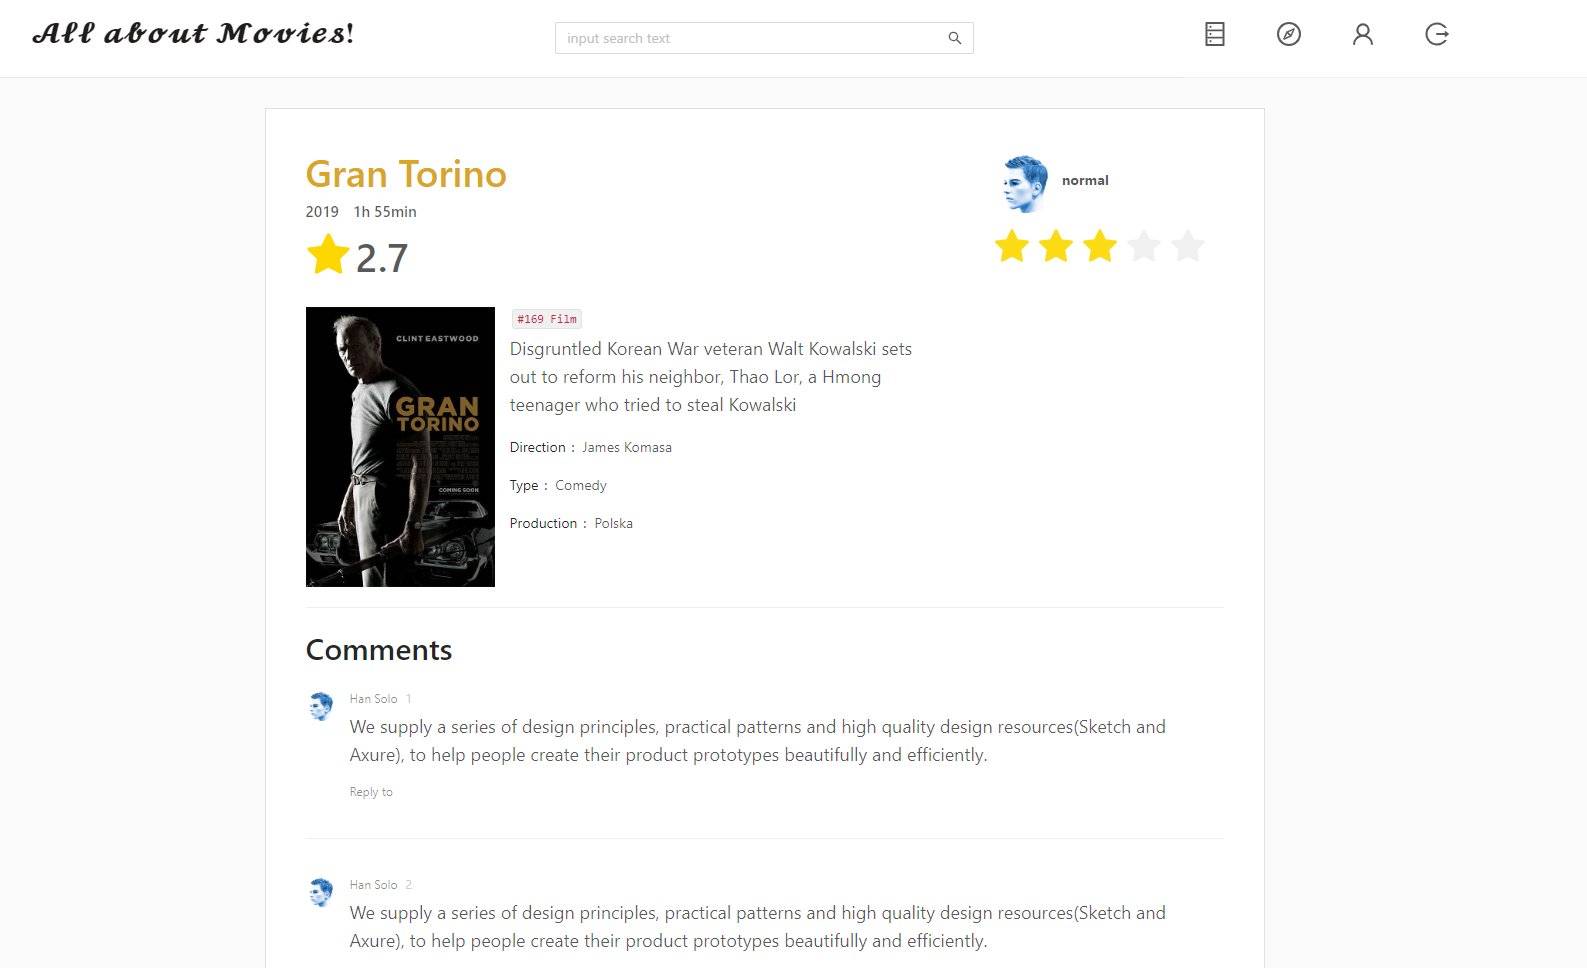
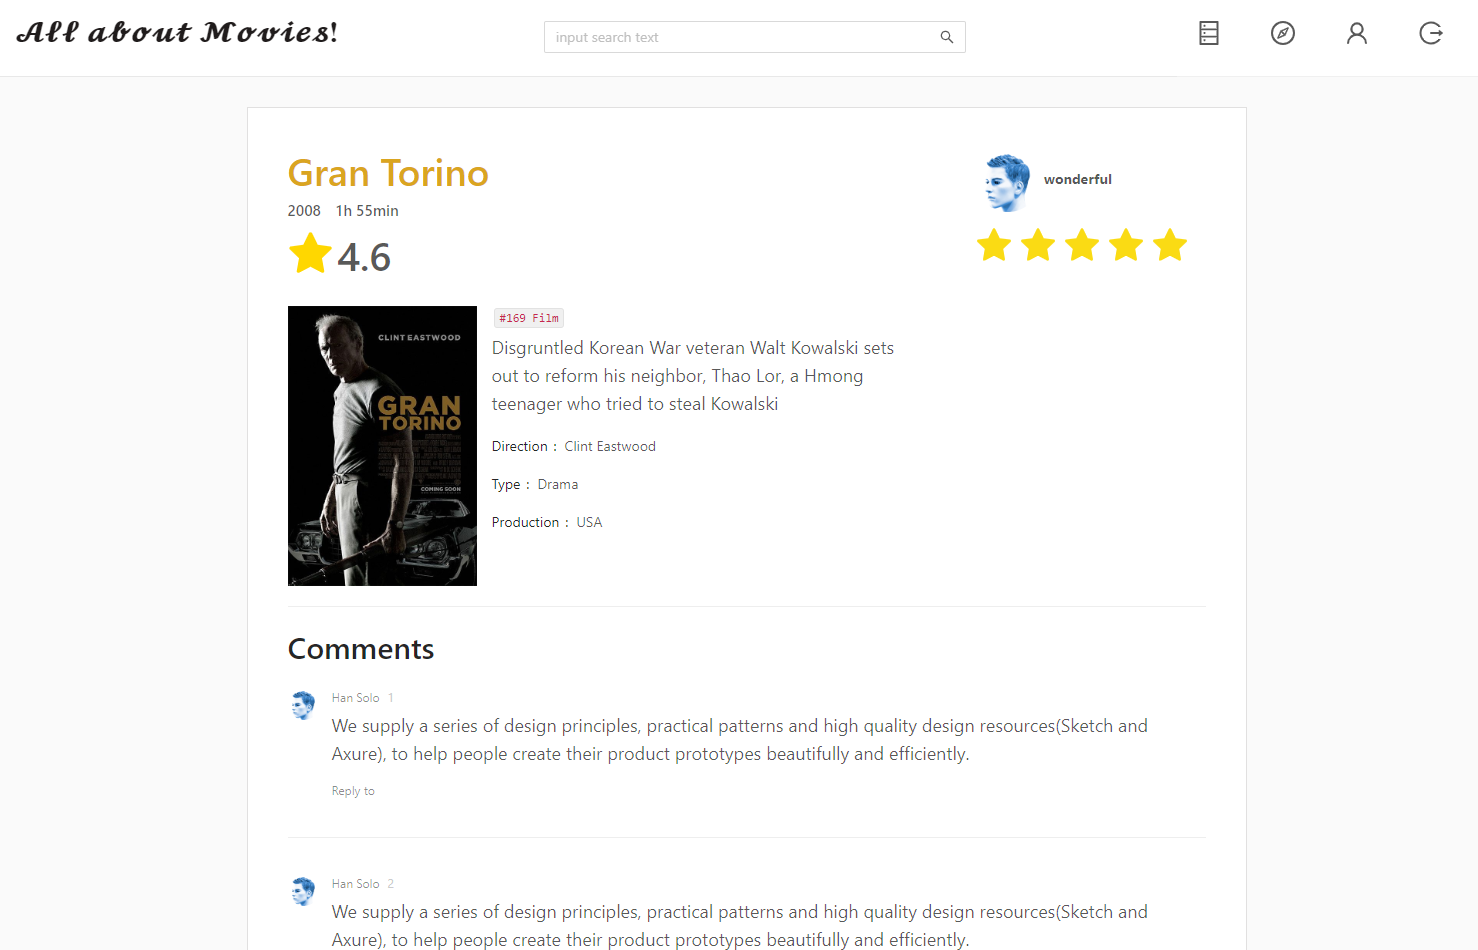
small changes in film model

diff --git a/frontend/src/app/films/film-view/film-view.component.html b/frontend/src/app/films/film-view/film-view.component.html
@@ -6,7 +6,7 @@
         <div nz-col>
           <h1 style="color: goldenrod; margin-bottom: 5px!important;" nz-typography>{{film.title}}</h1>
           <div style="font-size: 15px;">
-            <span nz-typography><strong>2019</strong></span>
+            <span nz-typography><strong>{{film.year}}</strong></span>
             <span style="margin-left: 10px;" nz-typography><strong>1h 55min</strong></span>
           </div>
 
@@ -27,9 +27,9 @@
           <p>{{film.description}}</p>
 
           <nz-descriptions [nzColumn]="1">
-            <nz-descriptions-item nzTitle="Direction">James Komasa</nz-descriptions-item>
-            <nz-descriptions-item nzTitle="Type">Comedy</nz-descriptions-item>
-            <nz-descriptions-item nzTitle="Production">Polska</nz-descriptions-item>
+            <nz-descriptions-item nzTitle="Direction">{{film.direction}}</nz-descriptions-item>
+            <nz-descriptions-item nzTitle="Type">{{film.type}}</nz-descriptions-item>
+            <nz-descriptions-item nzTitle="Production">{{film.production}}</nz-descriptions-item>
 
           </nz-descriptions>
         </div>
@@ -46,7 +46,7 @@
       >
      {{ value ? tooltips[value - 1] : 'I saw, my rating' }}
       </span>
-      <nz-rate class="rate" [(ngModel)]="value"></nz-rate>
+      <nz-rate class="rate" [disabled]="blockedRate" [(ngModel)]="value"></nz-rate>
 
       <nz-comment *ngIf="value && show" style="width: 70%;">
         <nz-comment-content>

diff --git a/frontend/src/app/user/ratings/ratings.component.html b/frontend/src/app/user/ratings/ratings.component.html
@@ -32,15 +32,15 @@
 
       <div nz-col nzSpan="10" nzPull="2">
         <h3 nz-typography>{{rating_film.film.title}}</h3>
-        <span nz-typography><strong>2019</strong></span>
+        <span nz-typography><strong>{{rating_film.film.year}}</strong></span>
 
         <div class="bottom-description">
           <i nz-icon nzType="star" class="star" nzTheme="fill"></i>
           <span style="margin-left: 5px; font-size:30px;" nz-typography><strong>{{4.7 | number:'1.0-1'}}</strong></span>
 
           <nz-descriptions [nzColumn]="2">
-            <nz-descriptions-item nzTitle="Direction">James Komasa</nz-descriptions-item>
-            <nz-descriptions-item nzTitle="Type">Comedy</nz-descriptions-item>
+            <nz-descriptions-item nzTitle="Direction">{{rating_film.film.direction}}</nz-descriptions-item>
+            <nz-descriptions-item nzTitle="Type">{{rating_film.film.type}}</nz-descriptions-item>
 
 
           </nz-descriptions>

diff --git a/frontend/src/app/films/film-view/film-view.component.ts b/frontend/src/app/films/film-view/film-view.component.ts
@@ -18,6 +18,7 @@ export class FilmViewComponent implements OnInit {
   value = 0;
   tooltips = ['terrible', 'bad', 'normal', 'good', 'wonderful'];
   rate;
+  blockedRate = false;
 
   data = [
     {
@@ -46,6 +47,7 @@ export class FilmViewComponent implements OnInit {
   ngOnInit(): void {
     this.filmService.getRatingByFilmIdAndUsername(this.film.id).subscribe(rating => {
       this.value = rating.stars;
+      this.blockedRate = true;
       this.description = rating.description;
       this.show = false;
       }
@@ -56,6 +58,7 @@ export class FilmViewComponent implements OnInit {
     this.filmService.addRating(new RatingRequest(this.film.id, this.value, this.description)).subscribe( res => {
       console.log(res);
       this.show = false;
+      this.blockedRate = true;
       }
     );
   }

diff --git a/frontend/src/app/films/film.model.ts b/frontend/src/app/films/film.model.ts
@@ -1,4 +1,5 @@
 export class FilmModel {
-  constructor(public id: string, public title: string, public description: string, public imageUrl ) {
+  constructor(public id: string, public title: string, public description: string, public imageUrl
+    ,         public direction: string, public type: string, public production: string, public year: number) {
   }
 }

diff --git a/film-microservice/src/main/java/com/film/filmmicroservice/film/model/Film.java b/film-microservice/src/main/java/com/film/filmmicroservice/film/model/Film.java
@@ -26,4 +26,16 @@ public class Film {
     @NonNull
     @Field("imageUrl")
     private String imageUrl;
+
+    @NonNull
+    private String direction;
+
+    @NonNull
+    private String type;
+
+    @NonNull
+    private String production;
+
+    @NonNull
+    private int year;
 }

diff --git a/rating-microservice/src/main/java/com/rating/rating/model/Film.java b/rating-microservice/src/main/java/com/rating/rating/model/Film.java
@@ -16,4 +16,12 @@ public class Film {
     private String description;
 
     private String imageUrl;
+
+    private String direction;
+
+    private String type;
+
+    private String production;
+
+    private int year;
 }

diff --git a/README.md b/README.md
@@ -25,3 +25,5 @@ You can use command from `init.data` file in order to initialize mongo database.
 ![Image5](pictures/view.PNG)
 
 ![Image6](pictures/view2.PNG)
+
+![Image7](pictures/profile.PNG)
